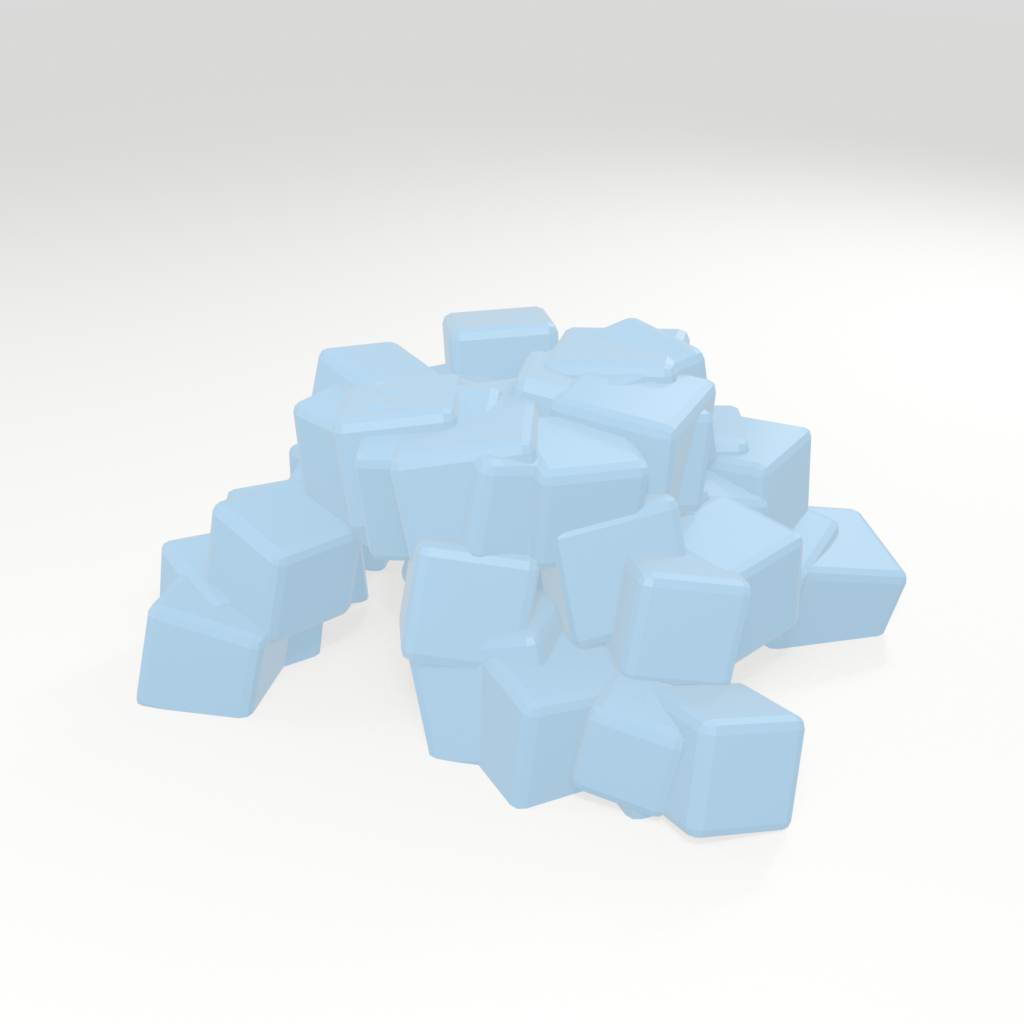
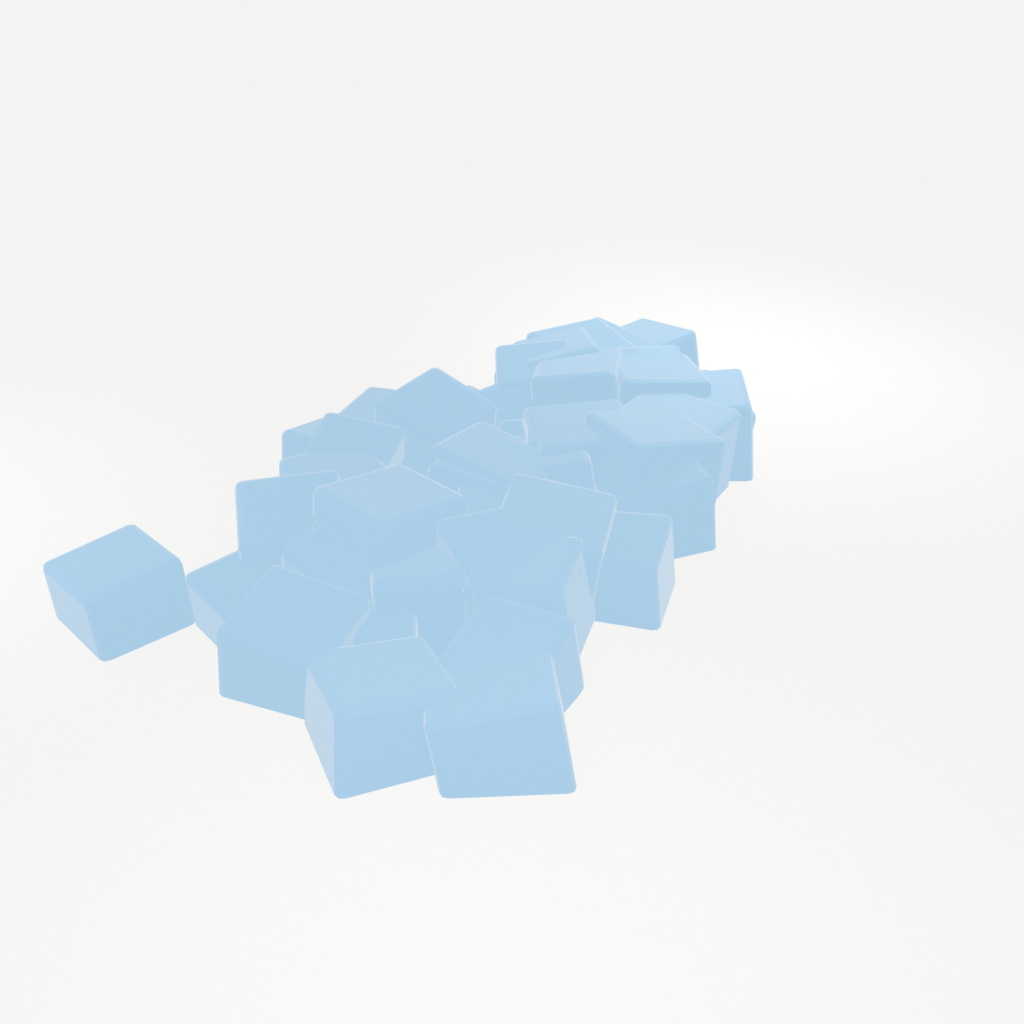
冰堆按前制作台凹槽尺寸重做（2.82×4.32×0.398）
- 扫描 前制作台.blend：Cube.001 即冰槽，8 个小方槽；lv1.blend 是空盒无凹槽
- 新脚本 Tools/3D/make_ice_bin.py：按凹槽长宽生成低/中/高三档，导出 GLB
- 训练成果/图像/冰块 三张图更新；ArtSource/3D/final/冰块_{低,中,高}.glb
- 清理 ComfyUI 半截模型（Anima 3D），checkpoints 只剩 WonderMix

diff --git a/Tools/3D/make_ice_bin.py b/Tools/3D/make_ice_bin.py
@@ -1,0 +1,162 @@
+# -*- coding: utf-8 -*-
+"""按前制作台凹槽尺寸（2.82 × 4.32 × 0.40）生成冰块堆，低/中/高三档。
+
+用法：
+  & D:\Blender\blender.exe -b -P Tools\3D\make_ice_bin.py -- --level mid --out <png> [--glb <glb>] [--size 1024]
+
+尺寸来源：D:\Blender\前制作台.blend 的 Cube.001（x ±1.41, y -9.22~-4.90, z 0.178~0.576），
+即 2.82 × 4.32 × 0.398 的矩形凹槽；冰块堆按此长宽、按档位填不同高度。
+"""
+import bpy
+import math
+import os
+import random
+import sys
+
+
+def arg(name, default=None):
+    argv = sys.argv
+    if "--" in argv:
+        argv = argv[argv.index("--") + 1:]
+    if name in argv:
+        i = argv.index(name)
+        return argv[i + 1] if i + 1 < len(argv) else default
+    return default
+
+
+LEVEL = arg("--level", "mid")
+OUT = arg("--out", "ice_bin.png")
+GLB = arg("--glb", None)
+SIZE = int(arg("--size", "1024"))
+
+BIN_X, BIN_Y, BIN_Z = 2.82, 4.32, 0.398
+MARGIN = 0.98
+
+CONF = {
+    "low":  {"count": 18,  "fill": 0.22, "size": (0.34, 0.46), "seed": 101},
+    "mid":  {"count": 55,  "fill": 0.55, "size": (0.34, 0.46), "seed": 202},
+    "high": {"count": 110, "fill": 0.95, "size": (0.32, 0.44), "seed": 303},
+}
+cfg = CONF[LEVEL]
+random.seed(cfg["seed"])
+
+bpy.ops.wm.read_factory_settings(use_empty=True)
+scene = bpy.context.scene
+
+
+def ice_mat():
+    m = bpy.data.materials.new("ice")
+    m.use_nodes = True
+    b = m.node_tree.nodes.get("Principled BSDF")
+    b.inputs["Base Color"].default_value = (0.42, 0.66, 0.88, 1)
+    b.inputs["Roughness"].default_value = 0.18
+    b.inputs["Metallic"].default_value = 0.0
+    return m
+
+
+ICE = ice_mat()
+
+# 地面
+bpy.ops.mesh.primitive_plane_add(size=20, location=(0, 0, -0.002))
+gm = bpy.data.materials.new("ground")
+gm.use_nodes = True
+gm.node_tree.nodes["Principled BSDF"].inputs["Base Color"].default_value = (1, 1, 1, 1)
+gm.node_tree.nodes["Principled BSDF"].inputs["Roughness"].default_value = 0.9
+bpy.context.object.data.materials.append(gm)
+
+half_x = BIN_X * 0.5 * MARGIN
+half_y = BIN_Y * 0.5 * MARGIN
+top = BIN_Z * cfg["fill"]
+
+placed = 0
+tries = 0
+while placed < cfg["count"] and tries < cfg["count"] * 40:
+    tries += 1
+    s = random.uniform(*cfg["size"])
+    # 高度按层分布：越靠上越收拢，形成自然堆
+    t = placed / max(1, cfg["count"] - 1)
+    z = 0.02 + top * (t ** 0.8) + random.uniform(-0.02, 0.02)
+    # 上层向中心收
+    shrink = 1.0 - 0.45 * (z / max(top, 1e-6))
+    lim_x = max(0.05, half_x * shrink * 0.92 - s * 0.5)
+    lim_y = max(0.05, half_y * shrink * 0.92 - s * 0.5)
+    x = random.uniform(-lim_x, lim_x)
+    y = random.uniform(-lim_y, lim_y)
+    bpy.ops.mesh.primitive_cube_add(size=s, location=(x, y, z),
+                                    rotation=(random.uniform(-0.2, 0.2),
+                                              random.uniform(-0.2, 0.2),
+                                              random.random() * math.tau))
+    ob = bpy.context.object
+    ob.name = "ice_%03d" % placed
+    mod = ob.modifiers.new("bev", "BEVEL")
+    mod.width = min(0.03, s * 0.08)
+    mod.segments = 2
+    bpy.context.view_layer.objects.active = ob
+    bpy.ops.object.modifier_apply(modifier=mod.name)
+    ob.data.materials.append(ICE)
+    placed += 1
+
+# 灯光
+def area(name, loc, energy, size, rot):
+    d = bpy.data.lights.new(name, "AREA")
+    d.energy = energy
+    d.size = size
+    o = bpy.data.objects.new(name, d)
+    o.location = loc
+    o.rotation_euler = rot
+    scene.collection.objects.link(o)
+
+
+area("key", (1.6, -2.2, 3.2), 18, 3.0, (math.radians(45), 0, math.radians(35)))
+area("fill", (-2.0, -1.6, 1.6), 6, 3.0, (math.radians(70), 0, math.radians(-40)))
+area("rim", (0, 2.2, 2.0), 10, 2.0, (math.radians(-55), 0, 0))
+
+world = bpy.data.worlds.new("W")
+world.use_nodes = True
+bg = world.node_tree.nodes["Background"]
+bg.inputs[0].default_value = (1, 1, 1, 1)
+bg.inputs[1].default_value = 0.9
+scene.world = world
+
+# 相机：3/4 俯视，覆盖 4.3 长的堆
+target = bpy.data.objects.new("target", None)
+target.location = (0, 0, top * 0.35)
+scene.collection.objects.link(target)
+cam_data = bpy.data.cameras.new("cam")
+cam_data.lens = 55
+cam = bpy.data.objects.new("cam", cam_data)
+cam.location = (3.4, -4.4, 3.6)
+scene.collection.objects.link(cam)
+scene.camera = cam
+con = cam.constraints.new("TRACK_TO")
+con.target = target
+con.track_axis = "TRACK_NEGATIVE_Z"
+con.up_axis = "UP_Y"
+
+scene.render.resolution_x = SIZE
+scene.render.resolution_y = SIZE
+scene.render.film_transparent = False
+scene.render.image_settings.file_format = "PNG"
+scene.render.filepath = os.path.abspath(OUT)
+try:
+    scene.render.engine = "BLENDER_EEVEE_NEXT"
+except Exception:
+    scene.render.engine = "BLENDER_EEVEE"
+try:
+    scene.eevee.taa_render_samples = 32
+except Exception:
+    pass
+scene.view_settings.view_transform = "Standard"
+
+os.makedirs(os.path.dirname(os.path.abspath(OUT)), exist_ok=True)
+bpy.ops.render.render(write_still=True)
+print("RENDERED", scene.render.filepath, "cubes", placed, "fill", top)
+
+if GLB:
+    bpy.ops.object.select_all(action="DESELECT")
+    for o in scene.objects:
+        if o.type == "MESH" and o.name.startswith("ice_"):
+            o.select_set(True)
+    bpy.ops.export_scene.gltf(filepath=os.path.abspath(GLB), export_format="GLB",
+                              use_selection=True, export_apply=True)
+    print("EXPORTED", os.path.abspath(GLB))

diff --git a/训练成果/图像/冰块/README.md b/训练成果/图像/冰块/README.md
@@ -1,32 +1,32 @@
 # 冰块堆（冰柜储备）
 
-> 冰柜里三种储备量的冰块堆：低 / 中 / 高。已用 Blender 参数化生成，**可直接交 Tripo**。
+> 按前制作台凹槽尺寸生成的三档冰块堆：低 / 中 / 高。
+> 凹槽来源：`D:\Blender\前制作台.blend` 的 Cube.001 —— **2.82 × 4.32 × 0.398**（x ±1.41，y -9.22~-4.90，z 0.178~0.576）。
 
 ## 三张图
 
-| 文件 | 颗数 | 表现 | 用途 |
-|---|---:|---|---|
-| `冰块_低.png` | 12 | 薄薄一层、散在底部 | 冰格快用完 |
-| `冰块_中.png` | 55 | 半满、堆成小丘 | 正常营业 |
-| `冰块_高.png` | 130 | 满溢、堆到边缘 | 刚补货 |
+| 文件 | 块数 | 堆高 | 表现 |
+|---|---:|---:|---|
+| `冰块_低.png` | 18 | ~0.09 | 薄薄一层、散在底部 |
+| `冰块_中.png` | 55 | ~0.22 | 半满、覆盖大部分底面 |
+| `冰块_高.png` | 110 | ~0.38 | 接近满槽、堆到上沿 |
 
-- 1024×1024、白底、3/4 俯视、低模方块（倒角 6mm）
-- 冰色 `#73AEE0` 左右的淡蓝，哑光，便于 Tripo 识别切面
-- 不含容器：容器在 Unity 里单独做，模型只做「冰堆」
+- 底面按凹槽 2.82 × 4.32 收缩 2%，方块 0.34–0.46（约 3–4 cm，按 1 单位 = 10 cm）
+- 1024×1024、白底、3/4 俯视、倒角低模
+- **不含容器**：容器在 Unity/前制作台里，模型只做冰堆
 
-## 生成方式
-
-`Tools/3D/make_ice_pile.py`（Blender 无头）：
+## 生成
 
 ```powershell
-& D:\Blender\blender.exe -b -P Tools\3D\make_ice_pile.py -- `
-  --level mid --out 训练成果\图像\冰块\冰块_中.png --size 1024
+& D:\Blender\blender.exe -b -P Tools\3D\make_ice_bin.py -- `
+  --level mid --out 训练成果\图像\冰块\冰块_中.png `
+  --glb ArtSource\3D\final\冰块_中.glb --size 1024
 ```
 
-`--level` 取 `low / mid / high`，颗数与堆高在脚本顶部 `CONF` 里调。
+`--level` 取 `low / mid / high`；块数/堆高/尺寸在脚本顶部 `CONF`。
 
-> 先用 ComfyUI 试过 9 张，SDXL 会把冰块画成透明盒或巨型晶体，遂改参数化。
+## 备注
 
-## 下一步
-
-挑一张（或三张分别）交 Tripo：`--model tripo-p1 -p face_limit=300`，低模方块不需要高面数。
+- `前制作台lv1.blend` 实际是**空的**（只有 8 个顶点的方盒 3.48×19.45×1.15，没有凹槽）；带凹槽的是 `前制作台.blend` 的 Cube.001，里面有 8 个小方槽。这里按**外框整体**当冰槽，忽略内部分隔。
+- `冰块.blend` 里只有一个 1.98×1.98×2.0 的倒角立方体，没有堆形可复用；沿用了它的「倒角方块」语言。
+- 已同时导出 GLB：`ArtSource/3D/final/冰块_{低,中,高}.glb`，Tripo 不理想时可直接用。
